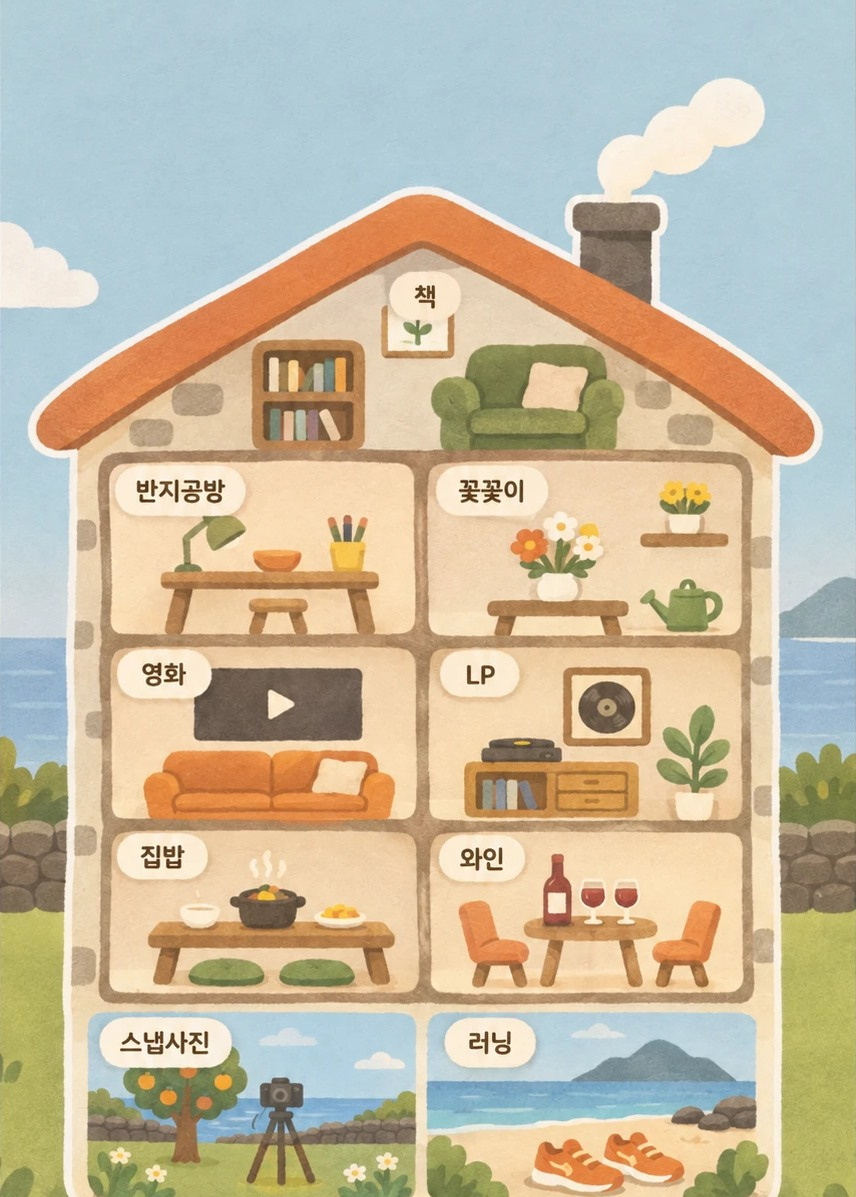
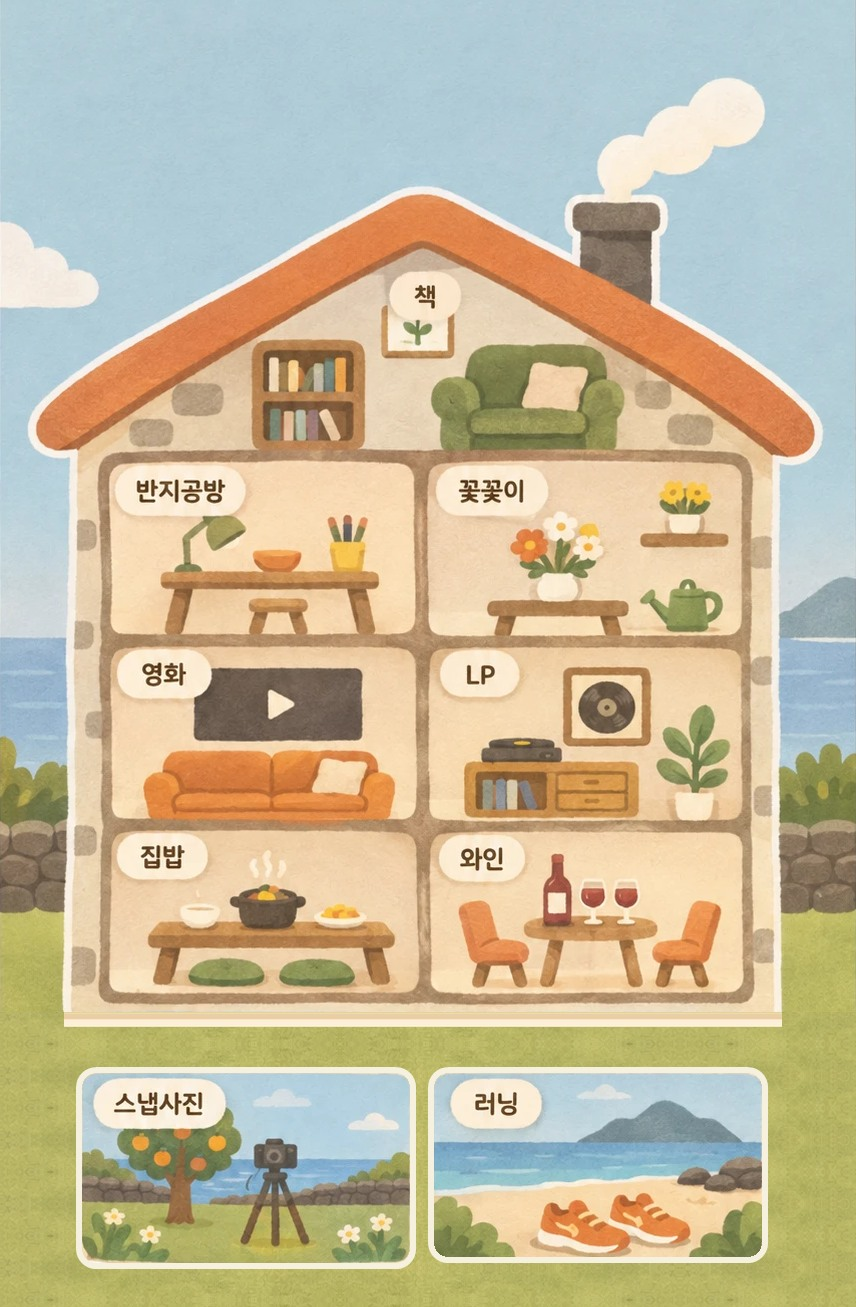
게하 탐색 집 그림 — 스냅사진 · 러닝 두 칸을 집 밖 잔디 위로 빼고 아래 잘림 없앰(집 아래 테두리 닫음), 방 자리 맞춤 · 인스타그램 동그라미 어느 페이지에서나 주황

diff --git a/src/pages/HousePage.tsx b/src/pages/HousePage.tsx
@@ -27,9 +27,9 @@ const VIEW_KEY = 'jejulog:house-view';
  */
 type Spot = { id: ProgramId; room: [number, number, number, number]; tag: [number, number, number]; center?: boolean };
 const HOUSES: Record<'narrow' | 'wide' | 'paper', { url: string; w: number; h: number; spots: Spot[]; labels?: boolean }> = {
-  // 지금 쓰는 그림 — 받은 손그림 집(종이 질감 · 돌담 벽 · 방 이름이 그림 안에) 856 × 1197. 이름표는 그림에 있으니 덧씌우지 않음
+  // 지금 쓰는 그림 — 받은 손그림 집(종이 질감 · 돌담 벽 · 방 이름이 그림 안에) 856 × 1307, 마당 두 칸(스냅사진 · 러닝)은 집 밖 잔디 위로. 이름표는 그림에 있으니 덧씌우지 않음
   paper: {
-    url: housePaperUrl, w: 856, h: 1197, labels: false,
+    url: housePaperUrl, w: 856, h: 1307, labels: false,
     spots: [
       { id: 'book', room: [100, 238, 756, 452], tag: [428, 280, 66], center: true },
       { id: 'craft', room: [108, 462, 418, 637], tag: [0, 0, 0] },
@@ -38,8 +38,8 @@ const HOUSES: Record<'narrow' | 'wide' | 'paper', { url: string; w: number; h: n
       { id: 'lp', room: [428, 647, 748, 822], tag: [0, 0, 0] },
       { id: 'homemeal', room: [108, 832, 418, 997], tag: [0, 0, 0] },
       { id: 'wine', room: [428, 832, 748, 997], tag: [0, 0, 0] },
-      { id: 'camping', room: [88, 1012, 418, 1197], tag: [0, 0, 0] },
-      { id: 'running', room: [428, 1012, 758, 1197], tag: [0, 0, 0] },
+      { id: 'camping', room: [76, 1067, 416, 1269], tag: [0, 0, 0] },
+      { id: 'running', room: [428, 1067, 768, 1263], tag: [0, 0, 0] },
     ],
   },
   // 휴대폰 — 세로 그림 (1089 × 1445)

diff --git a/src/components/MapFab.tsx b/src/components/MapFab.tsx
@@ -69,8 +69,8 @@ export function MapFab({ showMap = true, showInsta = true, showHouse = false, sh
         </a>
       )}
       {showInsta && (
-        // 취향지도 페이지(게하 탐색 · 취향 테스트 버튼이 함께 있을 때)에서는 셋 다 주황 바탕으로 맞춤
-        <a className={`mapfab${showHouse || showTest ? ' mapfab--accent' : ''}`} href={href.insta()} aria-label={ui.insta.title} title={ui.insta.title} data-track="insta_fab">
+        // 인스타그램 — 어느 페이지에서나 주황 바탕 · 흰 아이콘
+        <a className="mapfab mapfab--accent" href={href.insta()} aria-label={ui.insta.title} title={ui.insta.title} data-track="insta_fab">
           <svg viewBox="0 0 24 24" aria-hidden="true" focusable="false">
             <rect x="3.5" y="3.5" width="17" height="17" rx="5" />
             <circle cx="12" cy="12" r="4" />
